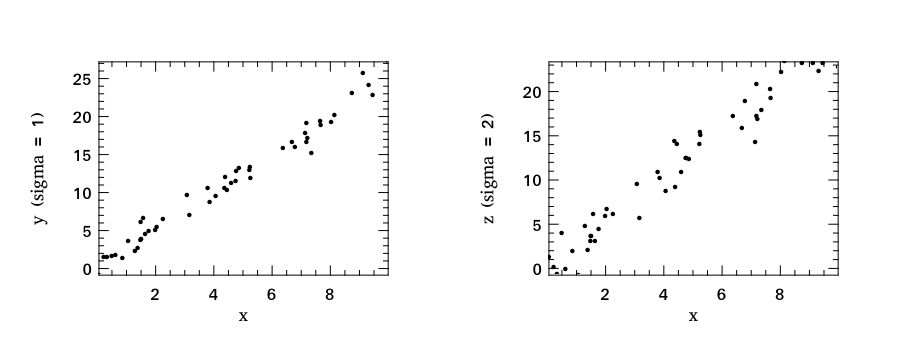
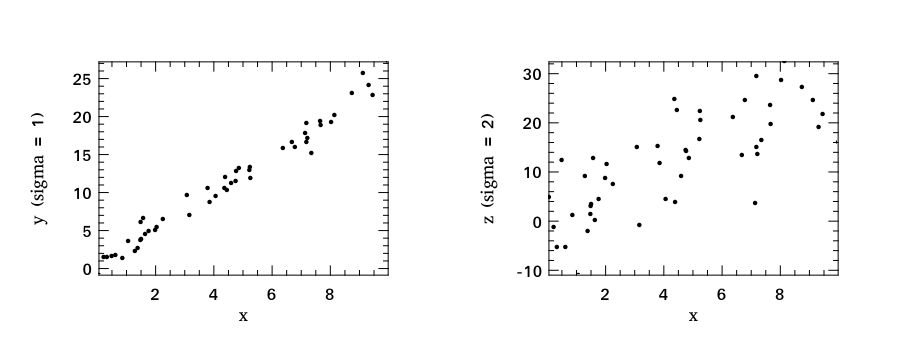
editing book ...

diff --git a/book/stats/README.md b/book/stats/README.md
@@ -48,7 +48,7 @@ The following code calculates different central moments of `data`. A central mom
 let noise sigma = Stats.gaussian_rvs ~mu:0. ~sigma;;
 let x = Array.init 50 (fun _ -> Stats.uniform_rvs 0. 10.);;
 let y = Array.map (fun a -> 2.5 *. a +. noise 1.) x;;
-let z = Array.map (fun a -> 2.5 *. a +. noise 2.) x;;
+let z = Array.map (fun a -> 2.5 *. a +. noise 8.) x;;
 ```
 
 Plot the figure ...
@@ -76,6 +76,16 @@ let h = Plot.create ~m:1 ~n:2 "plot_01.png" in
 The figure is as below ...
 
 <img src="images/stats/plot_01.png" alt="plot 01" title="Plot 01" width="700px" />
+
+
+Now let us have a look at the correlation between `x` and `y`, as well as the correlation between `x` and `z`.
+
+```ocaml env=stats_01
+# Stats.corrcoef x y
+- : float = 0.987944913889222565
+# Stats.corrcoef x z
+- : float = 0.757942970751708911
+```
 
 
 ...
